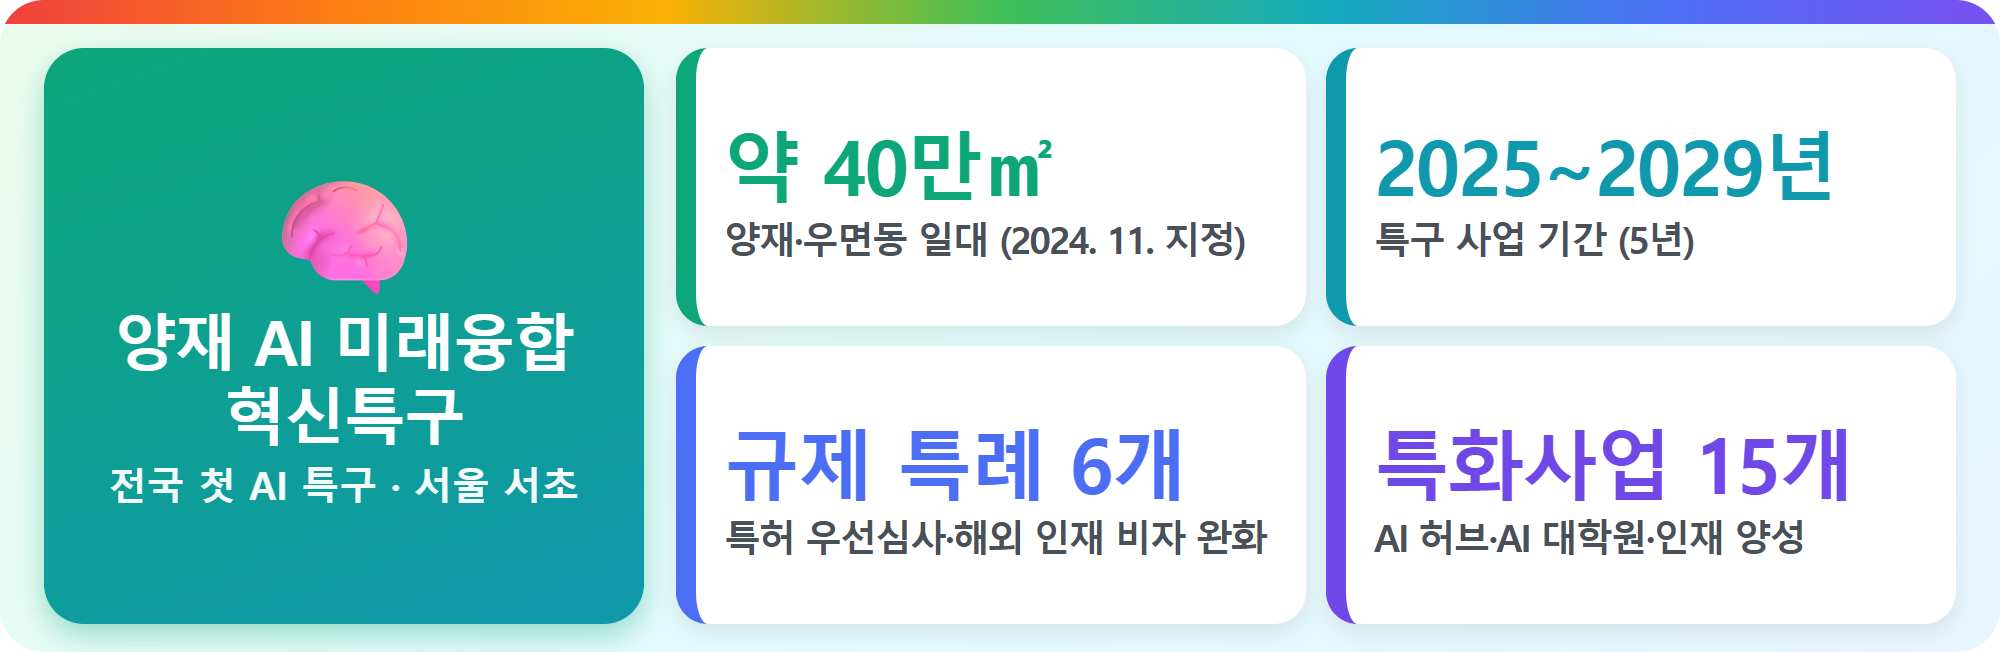
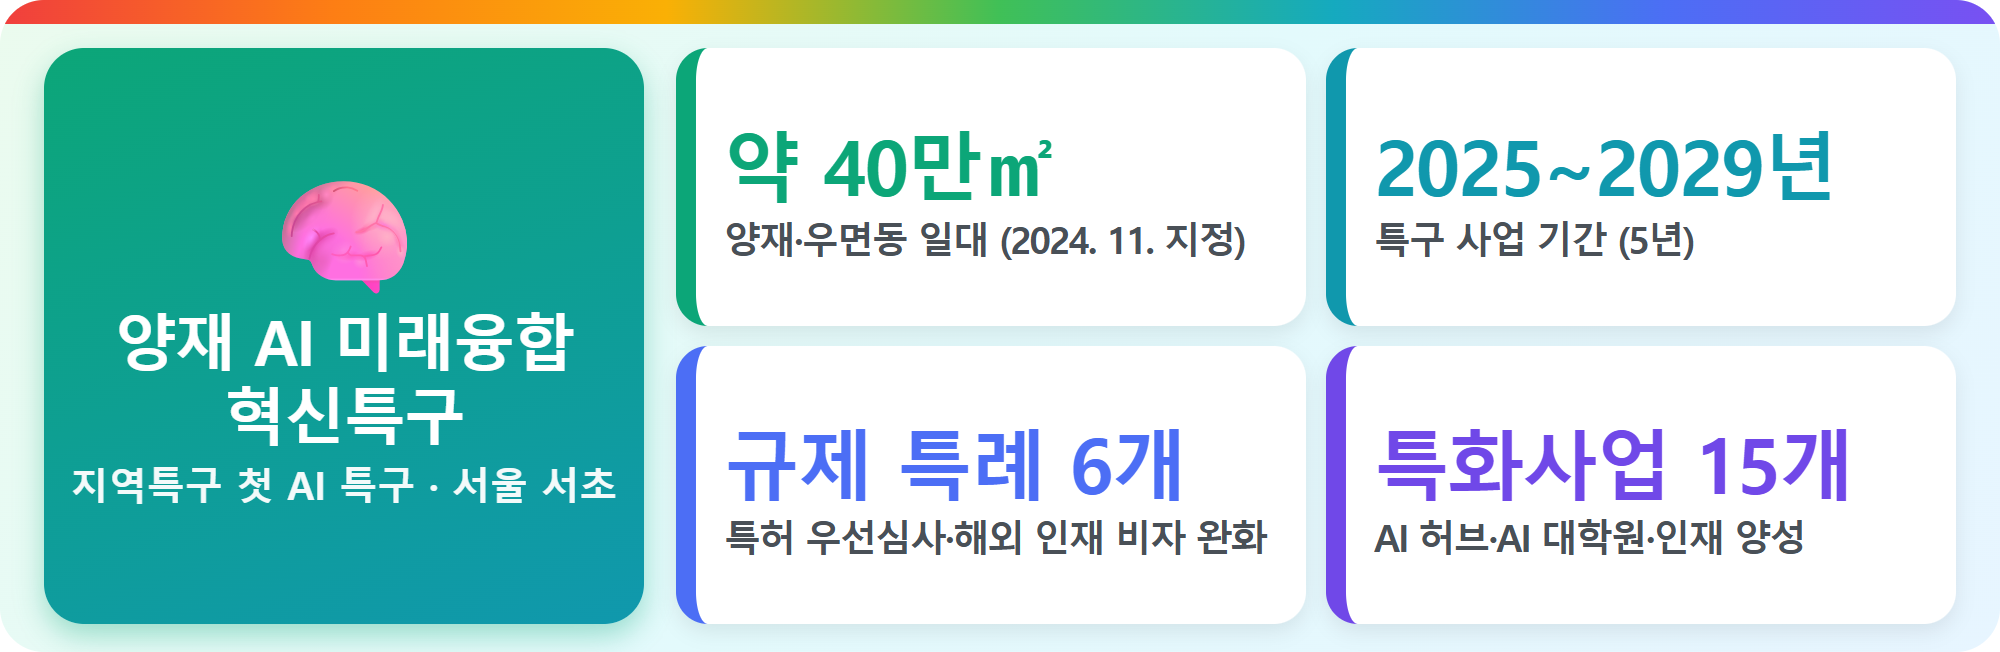
10쪽 공급기업 그림 설명 상자가 부제를 가리던 것 고침, 양재 특구 '지역특구 첫 AI 특구'로 바로잡음

Changed region(s): [[0.031, 0.7055, 0.31, 0.7669]]

diff --git a/서론_2026/05_10쪽_스마트공장공급기업.html b/서론_2026/05_10쪽_스마트공장공급기업.html
@@ -9,9 +9,9 @@ h1{font-size:44px;color:#212529;margin-top:8px}h1 span{color:#E8590C}
 .bar{width:100%;border-radius:12px 12px 0 0;box-shadow:0 4px 10px rgba(0,0,0,.15)}
 .v{font-size:23px;font-weight:700;color:#343a40;margin-bottom:6px}.hot .v{font-size:31px;color:#C92A2A}
 .k{position:absolute;bottom:-46px;font-size:26px;font-weight:700;color:#343a40}.hot .k{color:#C92A2A;font-size:30px}
-.call{position:absolute;left:330px;top:118px;background:linear-gradient(135deg,#F03E3E,#FD7E14);color:#fff;font-size:34px;font-weight:800;padding:16px 28px;border-radius:40px;box-shadow:0 6px 16px rgba(240,62,62,.35)}
+.call{position:absolute;left:330px;top:196px;background:linear-gradient(135deg,#F03E3E,#FD7E14);color:#fff;font-size:34px;font-weight:800;padding:16px 28px;border-radius:40px;box-shadow:0 6px 16px rgba(240,62,62,.35)}
 .call small{display:block;font-size:22px;font-weight:600;opacity:.95}
-.arr{position:absolute;left:222px;top:140px;font-size:70px;color:#F03E3E;transform:rotate(180deg)}
+.arr{position:absolute;left:222px;top:218px;font-size:70px;color:#F03E3E;transform:rotate(180deg)}
 .leg{margin-top:54px;display:flex;gap:26px;font-size:22px;color:#495057;justify-content:flex-end}
 </style><div class="w"><h1>지역별 스마트공장 공급기업 수 — <span>서울·경기 1,449개 (50.6%)</span></h1>
 <div class="sub">스마트공장 사업관리시스템(KOSMO) 등록 공급기업 전체 2,865개 · 공공데이터포털 「스마트공장 공급기업」 2026. 9. 17. 기준</div>

diff --git a/서론_2026/09_181쪽_양재AI특구.html b/서론_2026/09_181쪽_양재AI특구.html
@@ -10,7 +10,7 @@
 .rt{flex:1;display:grid;grid-template-columns:1fr 1fr;gap:10px}
 .c{display:flex;flex-direction:column;justify-content:center;background:#fff;border-radius:16px;padding:8px 14px;box-shadow:0 4px 10px rgba(0,0,0,.08);border-left:10px solid}
 .c b{display:block;font-size:38px;letter-spacing:-1px}.c span{font-size:18.5px;color:#495057;font-weight:700;letter-spacing:-1px}
-</style><div class="f"><div class="lt"><div class="e">🧠</div><h1>양재 AI 미래융합<br>혁신특구</h1><p>전국 첫 AI 특구 · 서울 서초</p></div>
+</style><div class="f"><div class="lt"><div class="e">🧠</div><h1>양재 AI 미래융합<br>혁신특구</h1><p>지역특구 첫 AI 특구 · 서울 서초</p></div>
 <div class="rt">
 <div class="c" style="border-color:#0CA678"><b style="color:#0CA678">약 40만㎡</b><span>양재·우면동 일대 (2024. 11. 지정)</span></div>
 <div class="c" style="border-color:#1098AD"><b style="color:#1098AD">2025~2029년</b><span>특구 사업 기간 (5년)</span></div>
